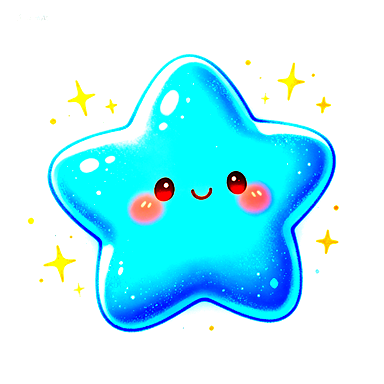
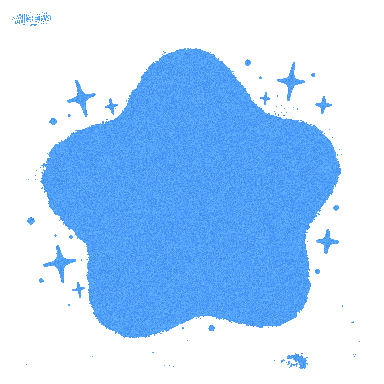
星星图片以L1为模板重建彩色版，绿外星人抛闪电+能量包，拾取物加发光

diff --git a/index.html b/index.html
@@ -703,12 +703,12 @@ function update(dt) {
     g.pos.x = clamp(g.pos.x, 35, CFG.WORLD_W - 35);
     g.pos.y = clamp(g.pos.y, 35, CFG.WORLD_H - 35);
 
-    // 绿色外星人投掷能量包
-    if (dist(g.pos, player) < 160 && M.random() < 0.006 * (dt / 16)) {
+    // 绿色外星人投掷能量包或闪电
+    if (dist(g.pos, player) < 160 && M.random() < 0.008 * (dt / 16)) {
       pickups.push({
         pos: { x: g.pos.x, y: g.pos.y },
-        type: 'ammo',
-        life: 600,
+        type: M.random() < 0.5 ? 'ammo' : 'boost',
+        life: 700,
         vy: -0.5
       });
       var ep = spawnAtEdge();
@@ -1016,30 +1016,36 @@ function render() {
     var bob = M.sin(pk.life * 0.1) * 6;
     var py = ps.y + bob;
     if (pk.type === 'boost') {
+      // 闪电 — 金黄色发光
+      var glow = ctx.createRadialGradient(ps.x, py, 4, ps.x, py, 24);
+      glow.addColorStop(0, 'rgba(255,220,50,0.8)');
+      glow.addColorStop(1, 'rgba(255,150,0,0)');
+      ctx.fillStyle = glow;
+      ctx.beginPath(); ctx.arc(ps.x, py, 24, 0, M.PI*2); ctx.fill();
       if (images.bolt) {
-        ctx.drawImage(images.bolt, ps.x - 16, py - 16, 32, 32);
+        ctx.drawImage(images.bolt, ps.x - 20, py - 20, 40, 40);
       } else {
         ctx.fillStyle = '#fd0';
-        ctx.beginPath();
-        ctx.arc(ps.x, py, 14, 0, M.PI * 2);
-        ctx.fill();
+        ctx.beginPath(); ctx.arc(ps.x, py, 16, 0, M.PI*2); ctx.fill();
         ctx.fillStyle = '#fff';
-        ctx.font = 'bold 16px sans-serif';
-        ctx.textAlign = 'center';
-        ctx.fillText('⚡', ps.x, py + 5);
+        ctx.font = 'bold 18px sans-serif'; ctx.textAlign = 'center';
+        ctx.fillText('⚡', ps.x, py + 6);
       }
     } else {
+      // 能量包 — 绿色发光
+      var glow2 = ctx.createRadialGradient(ps.x, py, 4, ps.x, py, 24);
+      glow2.addColorStop(0, 'rgba(50,255,100,0.7)');
+      glow2.addColorStop(1, 'rgba(0,200,50,0)');
+      ctx.fillStyle = glow2;
+      ctx.beginPath(); ctx.arc(ps.x, py, 24, 0, M.PI*2); ctx.fill();
       if (images.pack) {
-        ctx.drawImage(images.pack, ps.x - 20, py - 20, 40, 40);
+        ctx.drawImage(images.pack, ps.x - 22, py - 22, 44, 44);
       } else {
         ctx.fillStyle = '#4f8';
-        ctx.beginPath();
-        ctx.arc(ps.x, py, 12, 0, M.PI * 2);
-        ctx.fill();
+        ctx.beginPath(); ctx.arc(ps.x, py, 14, 0, M.PI*2); ctx.fill();
         ctx.fillStyle = '#fff';
-        ctx.font = 'bold 14px sans-serif';
-        ctx.textAlign = 'center';
-        ctx.fillText('🔫', ps.x, py + 4);
+        ctx.font = 'bold 16px sans-serif'; ctx.textAlign = 'center';
+        ctx.fillText('🔫', ps.x, py + 5);
       }
     }
   }